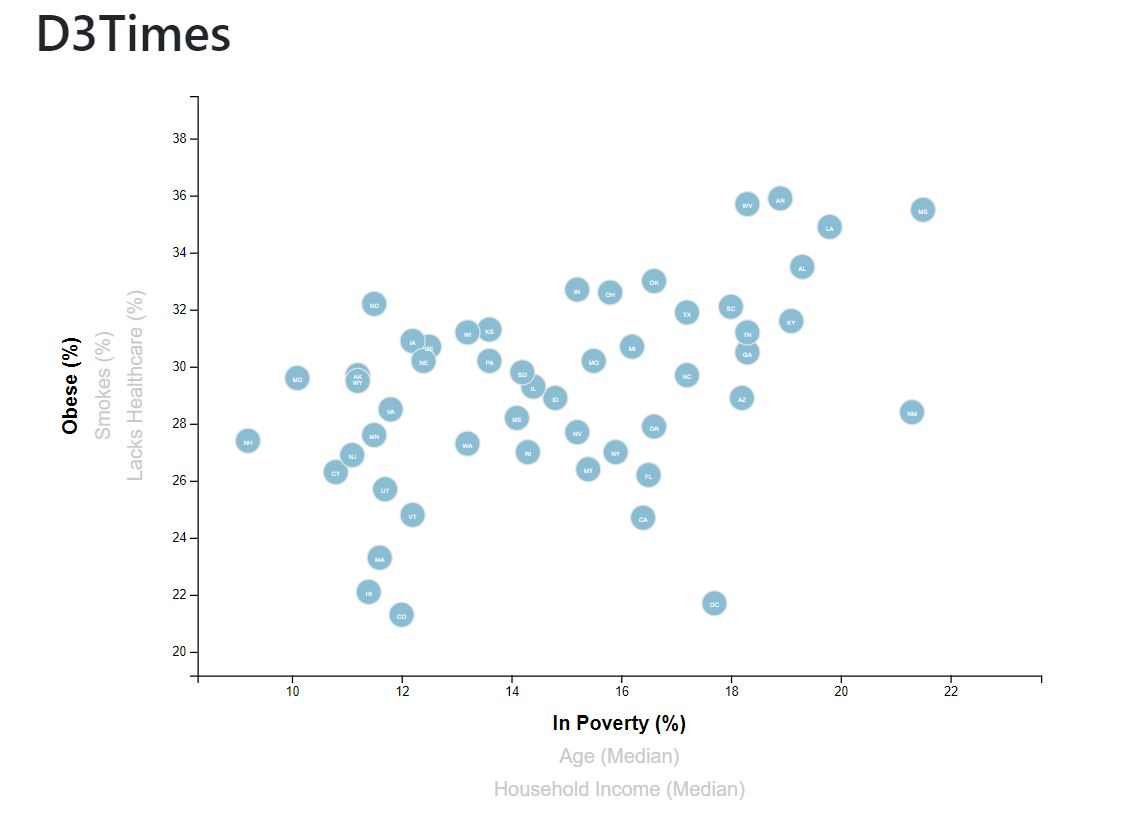
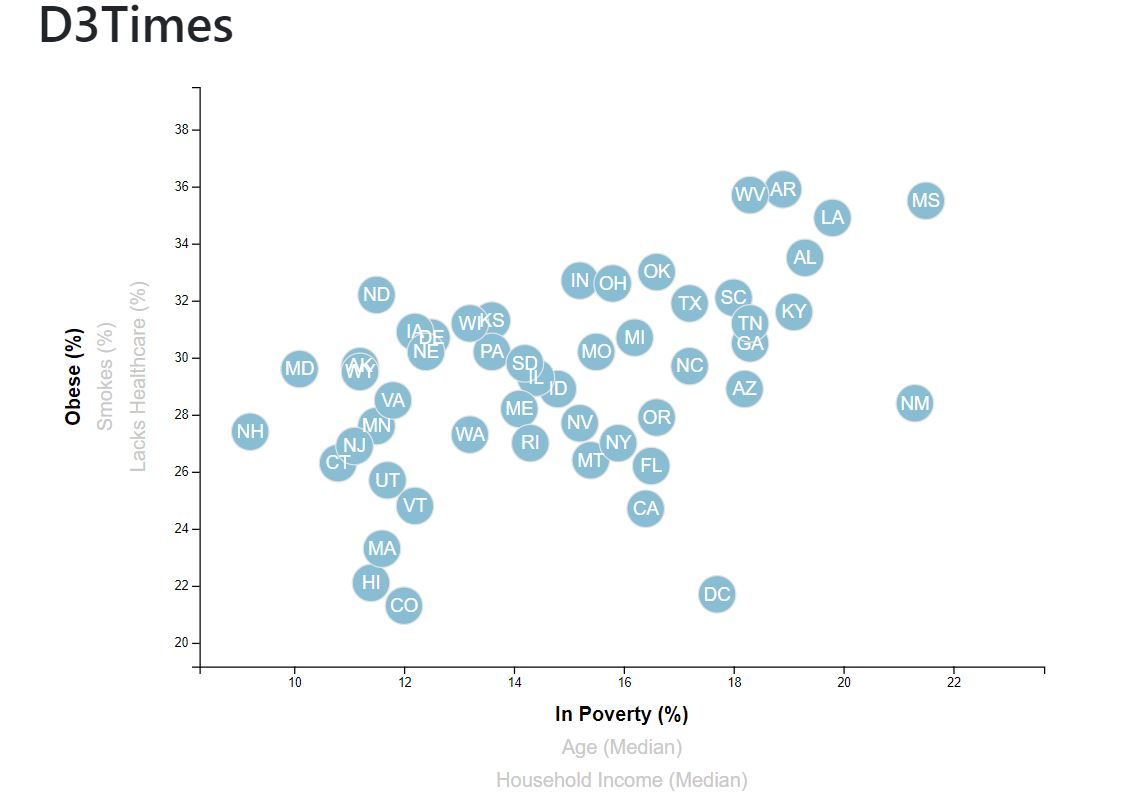
A few more edits. Completed

diff --git a/Solution/assets/js/app.js b/Solution/assets/js/app.js
@@ -25,9 +25,9 @@ var circRadius;
 
 function crGet() {
     if (width <= 530) {
-        circRadius = 5;
-    } else {
         circRadius = 10;
+    } else {
+        circRadius = 15;
     }
 }
 crGet();
